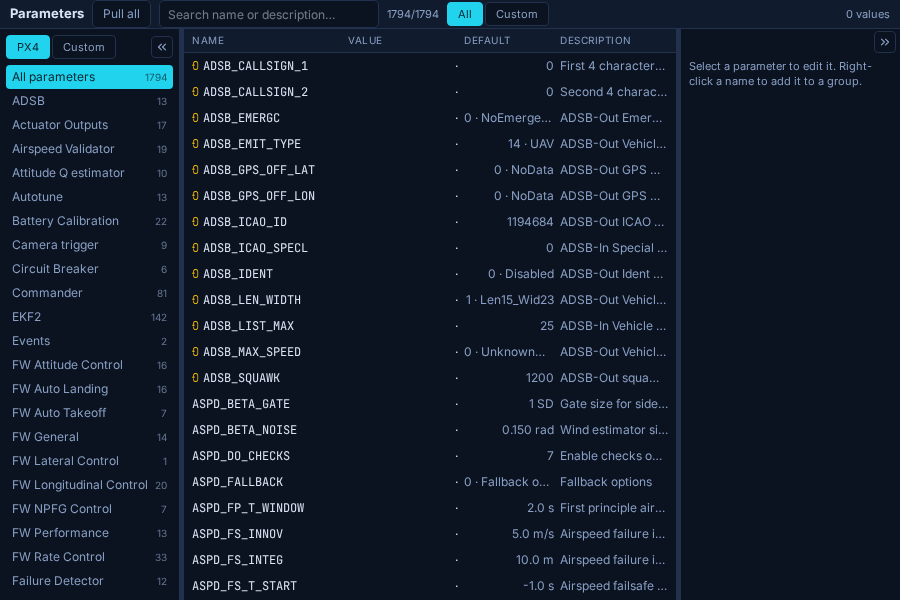
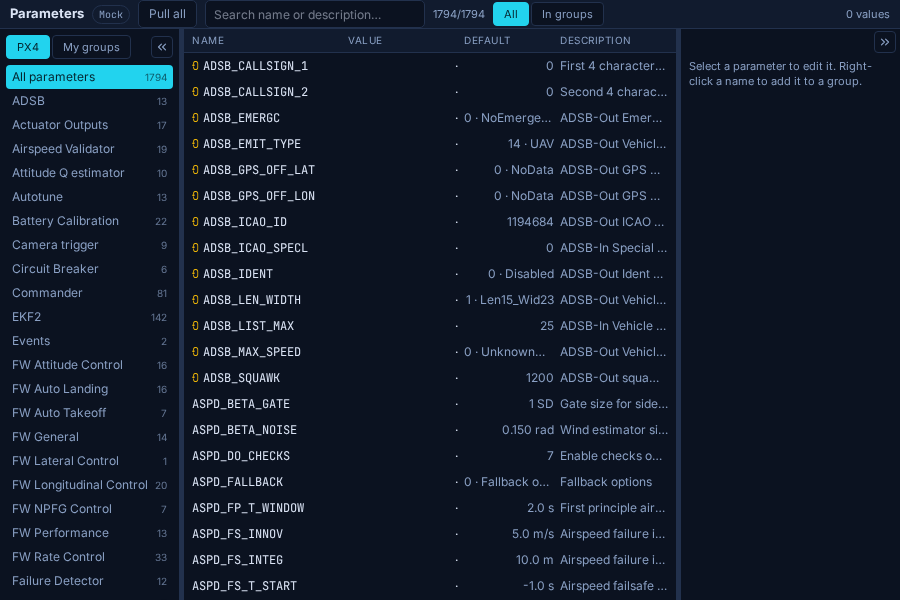
feat(params): FC status chip and bounded staged tray
The current FC identity/status now sits next to the title as a chip (Mock /
No FC / PX4 <version>, warning-toned when the firmware differs from the bundled
metadata) with the detail in its tooltip, replacing the standalone version
strip. The staged-change tray is bounded (max-height: 60px) and scrolls, so
many pending entries and the Apply button stay reachable.

Added a dev-only `window.__mgParams` store handle (same pattern as
`window.__mgMission`) so check-params.mjs can stage 40 entries and assert the
tray bound, scrollability, and Apply reachability
(screenshots/params/params-staged-tray.png). Plan §6.2 and §9 updated.

Changed region(s): [[0.0622, 0.0, 0.6533, 0.09]]

diff --git a/frontend/src/params/ParamsApp.tsx b/frontend/src/params/ParamsApp.tsx
@@ -712,6 +712,31 @@ export function ParamsApp() {
     </div>
   )
 
+  /** FC identity/status shown next to the title (Params-6). */
+  const fcStatus = !tauri
+    ? {
+        tone: 'muted' as const,
+        label: 'Mock',
+        title: 'Browser mock — no flight controller',
+      }
+    : fcVersion == null
+      ? {
+          tone: 'warn' as const,
+          label: 'No FC',
+          title: 'No flight controller link yet',
+        }
+      : fcVersion.startsWith(META_VERSION)
+        ? {
+            tone: 'ok' as const,
+            label: `PX4 ${fcVersion}`,
+            title: `Firmware matches the bundled metadata (PX4 ${META_VERSION})`,
+          }
+        : {
+            tone: 'warn' as const,
+            label: `PX4 ${fcVersion}`,
+            title: `Firmware differs from the bundled metadata (PX4 ${META_VERSION}); descriptions may be outdated`,
+          }
+
   const gridStyle = {
     '--p-left': `${leftCollapsed ? RAIL_W : leftW}px`,
     '--p-left-split': leftCollapsed ? '0px' : `${SPLITTER_W}px`,
@@ -723,6 +748,9 @@ export function ParamsApp() {
     <div className="p-grid">
       <header className="p-toolbar">
         <strong className="p-title">Parameters</strong>
+        <span className={`p-fc p-fc-${fcStatus.tone}`} title={fcStatus.title}>
+          {fcStatus.label}
+        </span>
         <button className="p-btn" onClick={() => void pullAll()} disabled={pulling}>
           {pulling
             ? `Pulling ${progress ? `${progress.received}/${progress.total}` : '…'}`
@@ -769,9 +797,6 @@ export function ParamsApp() {
           FC runs PX4 {fcVersion} but the bundled metadata is from PX4 {META_VERSION} —
           descriptions may be outdated; unknown parameters stay editable.
         </div>
-      )}
-      {fcVersion != null && fcVersion.startsWith(META_VERSION) && (
-        <div className="p-version-ok mono">PX4 {fcVersion}</div>
       )}
       {rebootNeeded.length > 0 && (
         <div className="p-reboot-banner">

diff --git a/frontend/src/params/params.css b/frontend/src/params/params.css
@@ -80,6 +80,30 @@ html.field-mode {
   font-size: 13px;
 }
 
+/* FC identity/status next to the title (Params-6). */
+.p-fc {
+  padding: 1px 6px;
+  border: 1px solid var(--mg-border);
+  border-radius: 999px;
+  font-size: 10px;
+  font-family: var(--mg-font-mono, monospace);
+  white-space: nowrap;
+}
+
+.p-fc-muted {
+  color: var(--mg-muted);
+}
+
+.p-fc-ok {
+  color: var(--mg-ok);
+  border-color: color-mix(in srgb, var(--mg-ok) 50%, var(--mg-border));
+}
+
+.p-fc-warn {
+  color: var(--mg-warn);
+  border-color: color-mix(in srgb, var(--mg-warn) 50%, var(--mg-border));
+}
+
 .p-btn {
   height: 28px;
   padding: 0 10px;
@@ -678,10 +702,14 @@ html.field-mode {
 .p-tray-list {
   display: flex;
   flex-wrap: wrap;
+  align-content: flex-start;
   gap: 4px;
   flex: 1;
   min-width: 0;
-  overflow: hidden;
+  /* Bounded so many staged entries stay reachable by scrolling instead of
+   * clipping (Params-6); the Apply button is a sibling and never moves. */
+  max-height: 60px;
+  overflow-y: auto;
 }
 
 .p-tray-item {

diff --git a/frontend/src/params/store.ts b/frontend/src/params/store.ts
@@ -188,3 +188,9 @@ export const useParamsStore = create<ParamsState>((set, get) => ({
     set({ groups })
   },
 }))
+
+// Dev-only handle for inspecting the app from the DevTools protocol / E2E
+// scripts (same pattern as `window.__mgMission` in stores/mission.ts).
+if (import.meta.env?.DEV && typeof window !== 'undefined') {
+  ;(window as unknown as { __mgParams?: unknown }).__mgParams = useParamsStore
+}

diff --git a/docs/plans/startup-settings-tools-ui-review-plan.md b/docs/plans/startup-settings-tools-ui-review-plan.md
@@ -326,8 +326,23 @@ from fixed 90/70 px to flexible shares, and their full text is exposed via a
 title (the detail pane already shows it on selection). Verified by
 `check-params.mjs` at 1366 × 768, 1920 × 1080, and 900 × 600, after a search, a
 group switch, and deep scrolling (screenshots in `frontend/screenshots/params/`).
-Remaining 6.2 items: resizable side panes, the two `Custom` controls, keyboard
-row navigation with density-aware row height, and FC status / bounded tray.
+
+**Implementation update, 2026-10-22 — remaining 6.2 items:** the group pane and
+editor are now on their own grid tracks with draggable splitters (pointer and
+ArrowLeft/Right, double-click reset) and collapse to rails, persisted under
+`maggcs.params.layout`, so the table keeps `MIN_CENTER_W` (460 px) at every size.
+The two `Custom` controls are disambiguated: the pane tab reads **My groups**
+(the operator's sets) and the toolbar filter reads **In groups** (membership
+only). The list is a focusable `role="listbox"`: ArrowUp/Down, PageUp/Down and
+Home/End move the selection and scroll it into view, with `aria-activedescendant`
+tracking it; the virtualizer reads the `--p-row-h` variable and observes the
+`field-mode` class, so Field mode enlarges rows to the 44 px touch floor and the
+window now mirrors Field mode at boot. Current FC identity/status is a chip next
+to the title (`Mock` / `No FC` / `PX4 <ver>`, warning-toned on a metadata
+mismatch) replacing the standalone version strip, and the staged-change tray is
+bounded (`max-height: 60px`) and scrollable so every pending entry and the Apply
+button stay reachable. `check-params.mjs` covers all of the above
+(`params-collapsed.png`, `params-staged-tray.png`).
 
 **Confirmed layout defect:** virtualized `.p-row` elements are absolutely
 positioned without a common full-width constraint. Their automatic widths vary
@@ -473,8 +488,10 @@ backends for those actions.
 - [x] Parameter table geometry: header/body column origins within 1 px at
   1366 × 768, 1920 × 1080, and 900 × 600, after search, group switch, and deep
   scroll; Value/Default rebalanced (`check-params.mjs`).
-- [ ] Parameter table: last-row reachability and Field-mode row-height
-  consistency.
+- [x] Parameter table: last-row reachability (keyboard End) and Field-mode
+  row-height consistency (virtual span = rows × row height); resizable/
+  collapsible panes; distinct pane/filter labels; FC status chip; bounded
+  staged tray (`check-params.mjs`; `params-collapsed.png`, `params-staged-tray.png`).
 - [x] Motor Test: all workspace content reachable; persistent stop controls at
   supported sizes; verified against the integrated working-tree UI on 2026-10-22.
 - [x] Inspector sidebars: resizable/collapsible, layout persisted, and a
